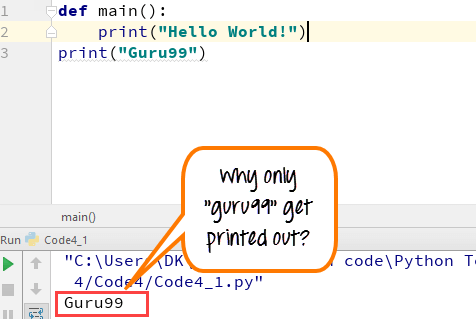
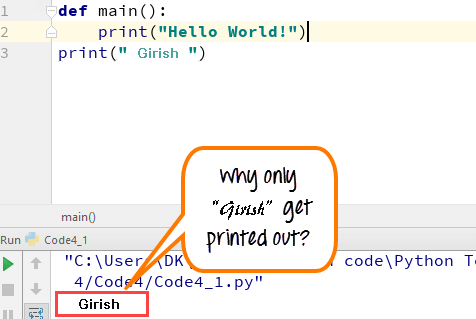
fixed the typo error

diff --git a/_posts/python/basictutorials/2019-09-26-Pythonlesson6.html b/_posts/python/basictutorials/2019-09-26-Pythonlesson6.html
@@ -28,12 +28,12 @@ discussion_id: 2019-09-25-PythonMainFunction
             <p>Consider the following code </p>
             <pre class="code-toolbar"><code>def main():
                 print "hello world!"
-                print "Guru99"
+                print "Girish"
             </code></pre>
             <p>Here we got two pieces of print one is defined within a main function that is "Hello World" and the other
-                is independent which is "Guru99". When you run the function def main (): <br><br></p>
+                is independent which is "Girish". When you run the function def main (): <br><br></p>
             <ul>
-                <li>Only "Guru99" prints out </li>
+                <li>Only "Girish" prints out </li>
                 <li>and not the code "Hello World."</li>
             </ul>
             <p style="text-align: center; "><a href="{{site.url}}{{site.baseurl}}/img/python/tutorial/6/Python4_1.png"
@@ -79,7 +79,7 @@ discussion_id: 2019-09-25-PythonMainFunction
                 if __name__== "__main__":
                     main()
      
-                 print("Guru99")
+                 print("Girish")
             </code></pre>
             <p>Above examples are Python 3 codes, if you want to use Python 2, please consider following code </p>
             <pre class="code-toolbar"><code>def main():
@@ -88,14 +88,14 @@ discussion_id: 2019-09-25-PythonMainFunction
                 if __name__== "__main__":
                 main()
      
-                print "Guru99"
+                print "Girish"
             </code></pre>
             <p class="alert alert-success"> In Python 3, you do not need to use if__name. Following code also works </p>
             <pre class="code-toolbar"><code>def main():
                 print("Hello World!")
        
                  main()
-                print("Guru99")
+                print("Girish")
             </code></pre>
             <p id="slidetag">&nbsp;</p>
         </div>

diff --git a/_site/blog/Pythonlesson6.html b/_site/blog/Pythonlesson6.html
@@ -133,12 +133,12 @@
             <p>Consider the following code </p>
             <pre class="code-toolbar"><code>def main():
                 print "hello world!"
-                print "Guru99"
+                print "Girish"
             </code></pre>
             <p>Here we got two pieces of print one is defined within a main function that is "Hello World" and the other
-                is independent which is "Guru99". When you run the function def main (): <br><br></p>
+                is independent which is "Girish". When you run the function def main (): <br><br></p>
             <ul>
-                <li>Only "Guru99" prints out </li>
+                <li>Only "Girish" prints out </li>
                 <li>and not the code "Hello World."</li>
             </ul>
             <p style="text-align: center; "><a href="http://localhost:4000/img/python/tutorial/6/Python4_1.png"
@@ -184,7 +184,7 @@
                 if __name__== "__main__":
                     main()
      
-                 print("Guru99")
+                 print("Girish")
             </code></pre>
             <p>Above examples are Python 3 codes, if you want to use Python 2, please consider following code </p>
             <pre class="code-toolbar"><code>def main():
@@ -193,14 +193,14 @@
                 if __name__== "__main__":
                 main()
      
-                print "Guru99"
+                print "Girish"
             </code></pre>
             <p class="alert alert-success"> In Python 3, you do not need to use if__name. Following code also works </p>
             <pre class="code-toolbar"><code>def main():
                 print("Hello World!")
        
                  main()
-                print("Guru99")
+                print("Girish")
             </code></pre>
             <p id="slidetag">&nbsp;</p>
         </div>

diff --git a/_site/blog/PythonInternetAccess.html b/_site/blog/PythonInternetAccess.html
@@ -227,7 +227,7 @@
    
     <div class="row" >
         <div class="col-lg-4 col-md-6 col-sm-6">
-            <a target="_blank" href="https://girishgodage.github.io/blog//PyhonInternetAccess" class="btn  btn-sm" id="round-button" 
+            <a target="_blank" href="https://girishgodage.github.io/blog/PythonInternetAccess" class="btn  btn-sm" id="round-button" 
                 >
                 <i class="fas fa-arrow-left mr-2"></i>Previous Lesson
             </a>

diff --git a/_posts/python/Extra/2019-10-02-PythonInternetAccess.html b/_posts/python/Extra/2019-10-02-PythonInternetAccess.html
@@ -9,7 +9,7 @@ tags:
 image: https://girishgodage.github.io/img/Python_logo.png
 author: Girish Godage
 layout: posts
-prevurl: https://girishgodage.github.io/blog//PyhonInternetAccess
+prevurl: https://girishgodage.github.io/blog/PythonInternetAccess
 nexturl: https://girishgodage.github.io/blog/PythonXMLParser
 discussion_id: 2019-10-02-PyhonIntetnetAccess
 ---
